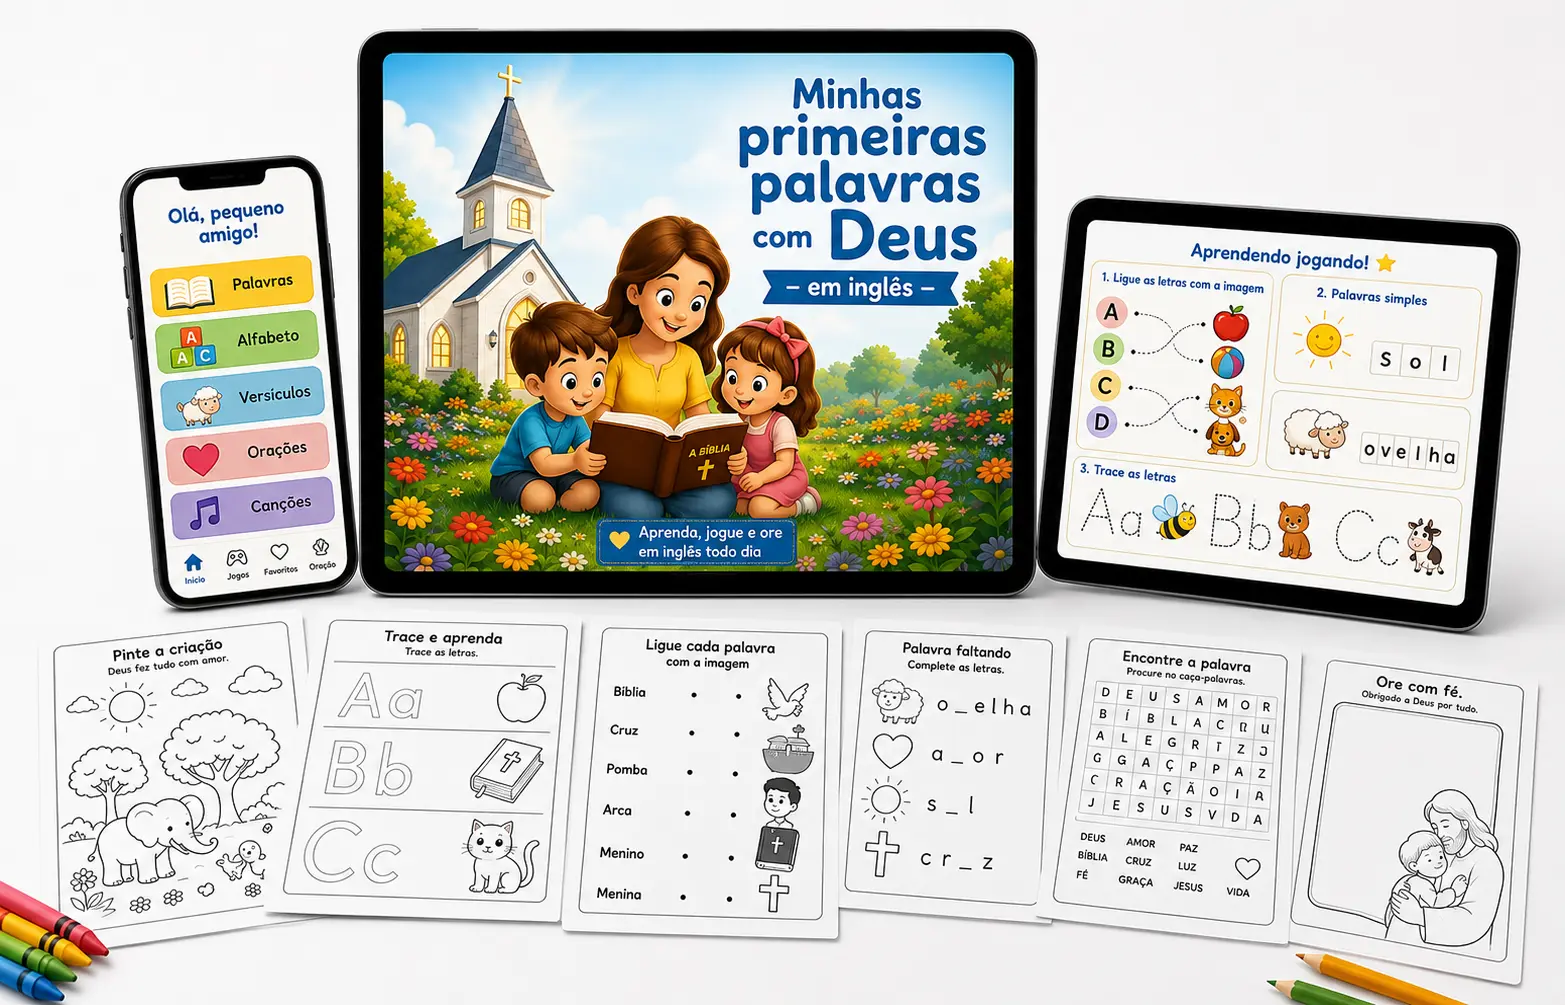
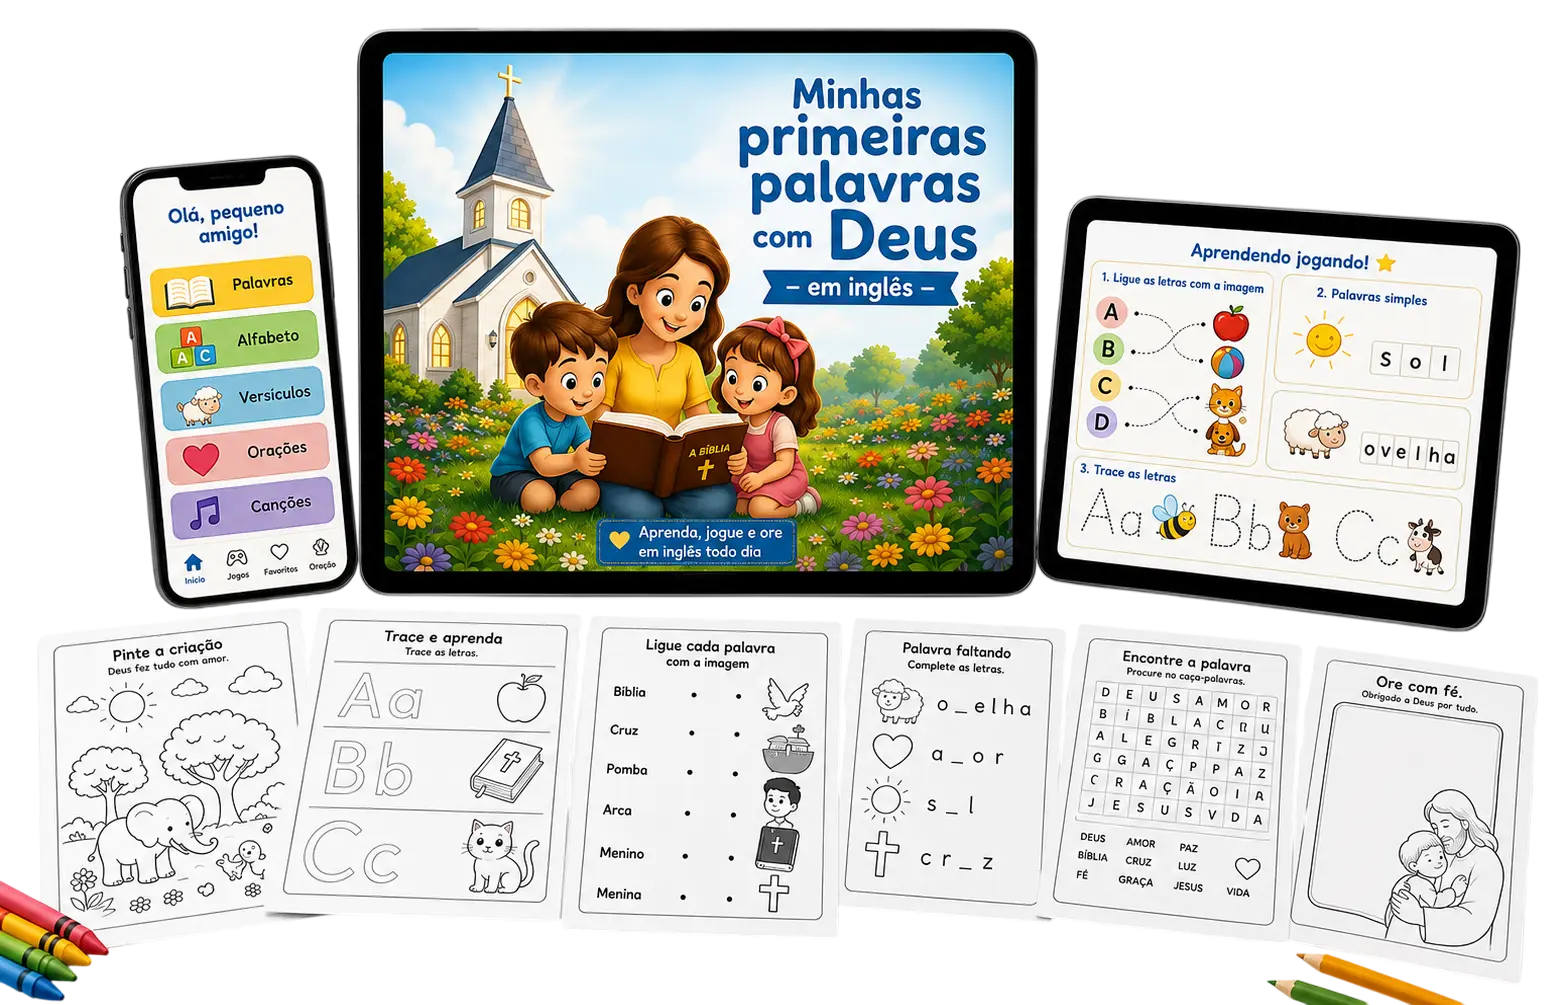
Producao: mockup transparente no hero (drop-shadow) + og-cover 1200x630 achatado

diff --git a/public/index.html b/public/index.html
@@ -10,7 +10,7 @@
 <meta property="og:type" content="website">
 <meta property="og:title" content="Minhas Primeiras Palavras com Deus — inglês bíblico sem telas">
 <meta property="og:description" content="Seu filho aprende as primeiras palavras em inglês pela Palavra de Deus, colorindo e brincando. Livro de 127 páginas + 4 bônus + áudios por R$ 67.">
-<meta property="og:image" content="assets/images/mockup-kit.webp">
+<meta property="og:image" content="assets/images/og-cover.webp">
 <meta property="og:url" content="https://minhas-primeiras-palavras-mainstream.pages.dev/">
 <meta name="twitter:card" content="summary_large_image">
 <link rel="preconnect" href="https://fonts.googleapis.com">
@@ -75,8 +75,8 @@
   .hero p.sub{font-size:1.2rem; color:var(--ink); max-width:34ch;}
   .hero-cta-row{display:flex; align-items:center; gap:16px; flex-wrap:wrap; margin-top:26px;}
   .hero-note{font-size:.9rem; color:var(--muted);}
-  .hero-visual{position:relative; border-radius:var(--radius); overflow:hidden;}
-  .hero-visual img{width:100%; height:auto; display:block; border-radius:var(--radius); box-shadow:var(--shadow);}
+  .hero-visual{position:relative;}
+  .hero-visual img{width:100%; height:auto; display:block; filter:drop-shadow(0 12px 22px rgba(31,74,61,.18));}
   .hero-visual .ph{color:var(--forest); font-weight:700;}
   .hero-visual .ph small{display:block; font-weight:600; color:var(--forest-2); margin-top:8px; font-size:.82rem;}
 